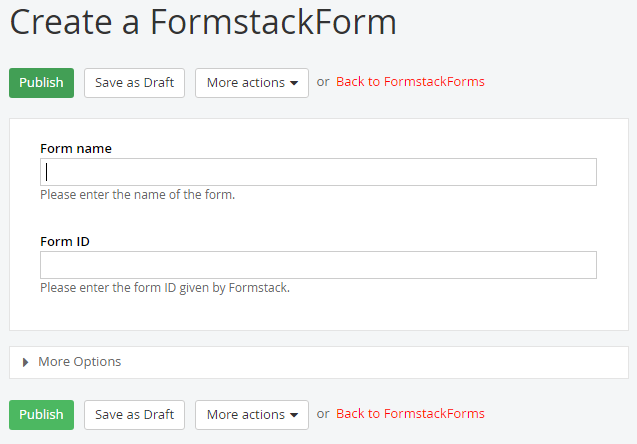
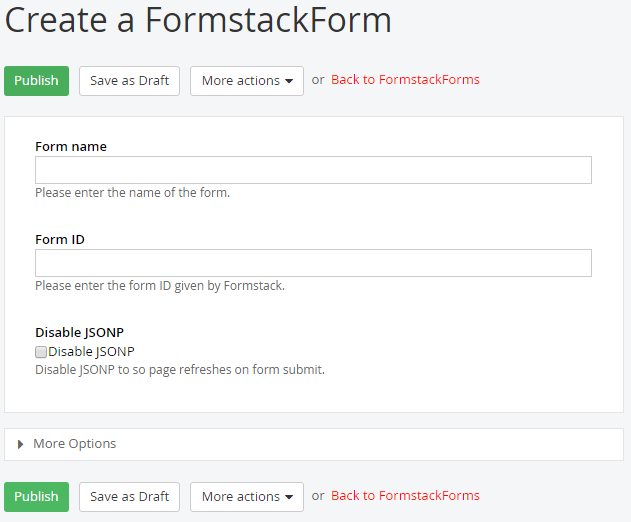
Enabled JSONP submissions and updated readme

diff --git a/README.md b/README.md
@@ -9,6 +9,7 @@ This module embeds a Formstack Form in a Sitefinity Page.
 * Under content choose Formstack Forms
 * Click on Create a FormstactForm
 * Fill out Form
+** Note: JSONP is enabled by default, this will stop the page from refreshing on form submit
 
 ![Create Formstack Form Item](/Help/CreateForm.png "Create Formstack Form Item")
 
